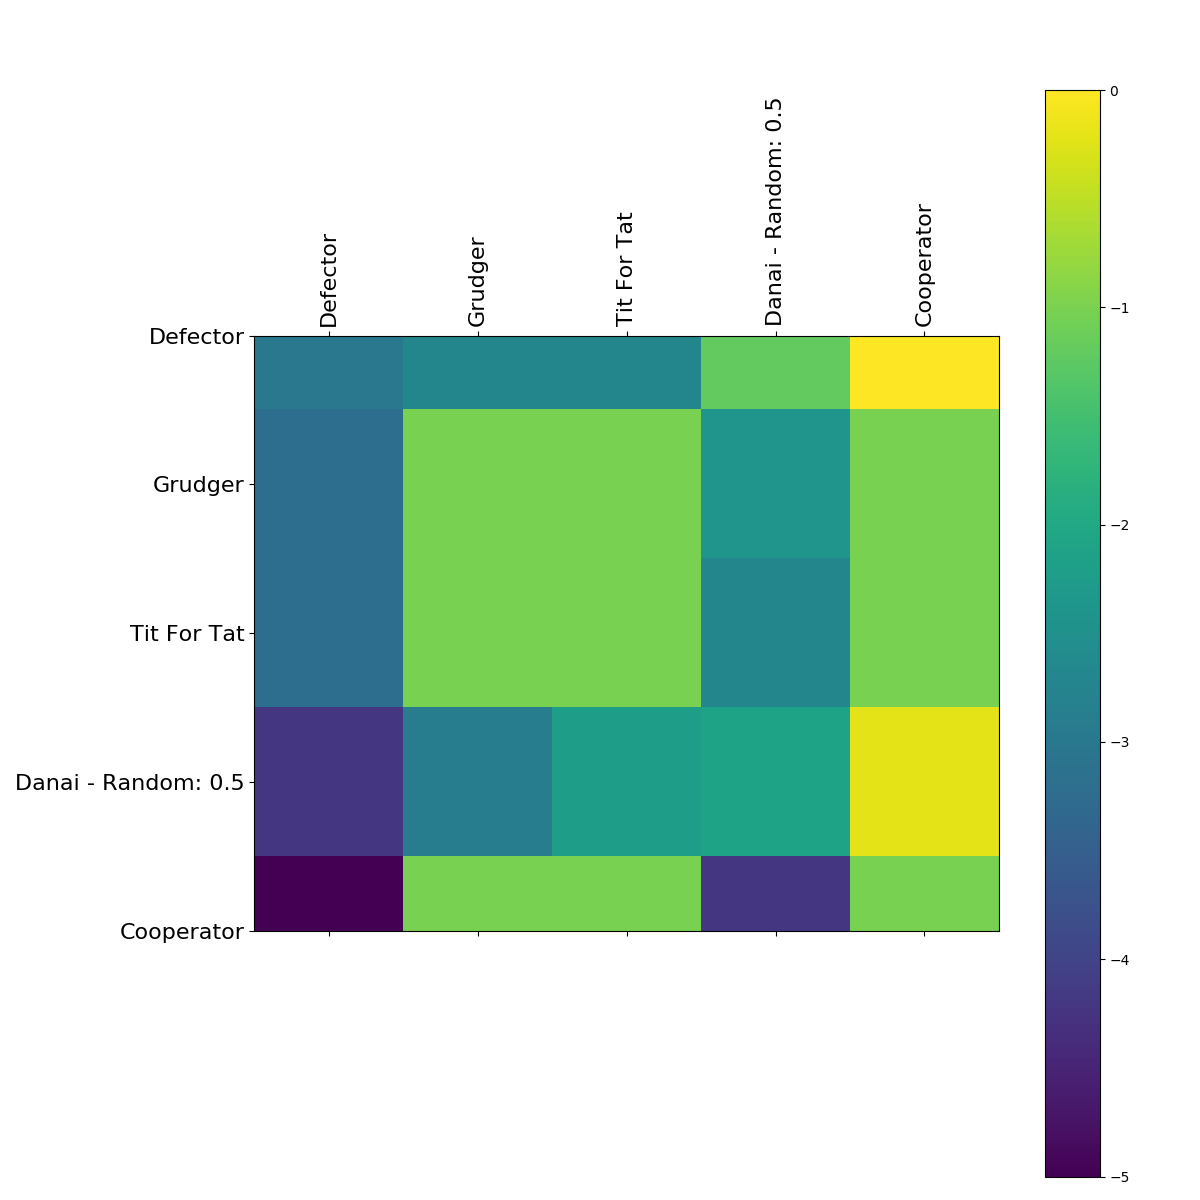
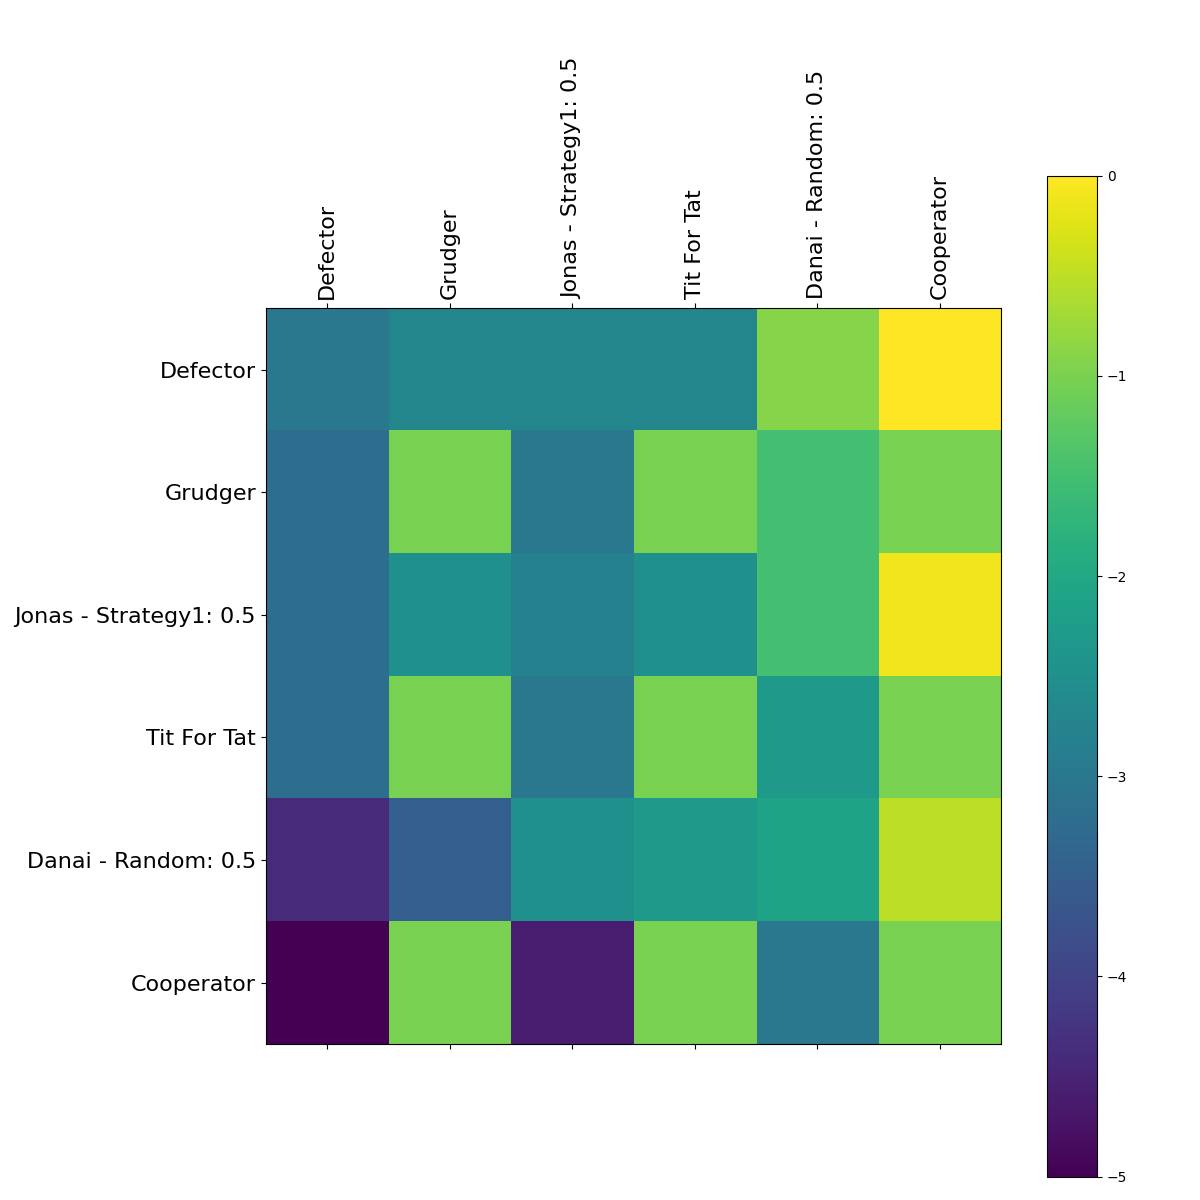
draft

diff --git a/was-tournament/wasstrategies/jonas_strategy.py b/was-tournament/wasstrategies/jonas_strategy.py
@@ -1,0 +1,83 @@
+"""Code retrieved from Axelrod rand.py strategy"""
+
+from axelrod.action import Action
+from axelrod.player import Player
+
+C, D = Action.C, Action.D
+
+
+class Jonas(Player):
+    """A player who randomly chooses between cooperating and defecting.
+    This strategy came 15th in Axelrod's original tournament.
+    Names:
+    - Random: [Axelrod1980]_
+    - Lunatic: [Tzafestas2000]_
+    """
+
+    name = "Jonas - Strategy1"
+    classifier = {
+        "memory_depth": 0,  # Memory-one Four-Vector = (p, p, p, p)
+        "stochastic": True,
+        "long_run_time": False,
+        "inspects_source": False,
+        "manipulates_source": False,
+        "manipulates_state": False,
+    }
+
+    def __init__(self, p: float = 0.5) -> None:
+        """
+        Parameters
+        ----------
+        p, float
+            The probability to cooperate
+        Special Cases
+        -------------
+        Random(0) is equivalent to Defector
+        Random(1) is equivalent to Cooperator
+        """
+        super().__init__()
+        self.p = p
+        self.lost_trust = False
+        self.gained_trust = False
+
+    def strategy(self, opponent: Player) -> Action:
+        """Actual strategy definition that determines player's action."""
+        if len(self.history) == 0:
+            return C
+        if len(self.history) >= 8:
+            if self.gained_trust == False:
+                return D
+            else:
+                return C
+        # if opponent history includes a C after a D, then cooperate
+        if (
+            len(opponent.history) > 1
+            and opponent.history[-1] == C
+            and opponent.history[-2] == D
+        ):
+            self.gained_trust = True
+            return C
+        # if previous round of opponent was a defection, perform defection
+        if len(opponent.history) > 0 and opponent.history[-1] == D:
+            return D
+        # Defect in any other case
+        return D
+
+    def _post_init(self):
+        super()._post_init()
+        if self.p in [0, 1]:
+            self.classifier["stochastic"] = False
+        # Avoid calls to _random, if strategy is deterministic
+        # by overwriting the strategy function.
+        if self.p <= 0:
+            self.strategy = self.defect
+        if self.p >= 1:
+            self.strategy = self.cooperate
+
+    @classmethod
+    def cooperate(cls, opponent: Player) -> Action:
+        return C
+
+    @classmethod
+    def defect(cls, opponent: Player) -> Action:
+        return D

diff --git a/was-tournament/was_tournament.py b/was-tournament/was_tournament.py
@@ -1,10 +1,17 @@
 import axelrod as axl
 from wasstrategies import danai_strategy as pl0
+from wasstrategies import jonas_strategy as pl1
 
 """Run an Axelrod Tournament (https://axelrod.readthedocs.io/en/stable/tutorials/new_to_game_theory_and_or_python/tournament.html)"""
 # Create the strategy players
-strategies = [axl.Cooperator(), axl.Defector(),
-axl.TitForTat(), axl.Grudger(), pl0.Danai()]
+strategies = [
+    axl.Cooperator(),
+    axl.Defector(),
+    axl.TitForTat(),
+    axl.Grudger(),
+    pl0.Danai(),
+    pl1.Jonas(),
+]
 
 # Print the startegy players
 print(f"Available strategies: {strategies}")
@@ -13,7 +20,7 @@ print(f"Available strategies: {strategies}")
 prisoners_dilemma = axl.game.Game(r=-1, s=-5, t=0, p=-3)
 
 # Create the tournament between strategy players with 10 turns
-tournament = axl.Tournament(strategies, game = prisoners_dilemma, turns=10, repetitions=1)
+tournament = axl.Tournament(strategies, game=prisoners_dilemma, turns=10, repetitions=1)
 
 # Play the tournament
 results = tournament.play(filename="was-tournament/was_tournament_analysis.csv")
@@ -28,17 +35,17 @@ plot = axl.Plot(results)
 # View the scores averaged per opponent and turns
 p1 = plot.boxplot()
 p1.show()
-p1.savefig('was-tournament/was_results.png')
+p1.savefig("was-tournament/was_results.png")
 
 # View the distributions of wins for each strategy
 p2 = plot.winplot()
 p2.show()
-p2.savefig('was-tournament/was_win_distributions.png')
+p2.savefig("was-tournament/was_win_distributions.png")
 
 # View the payoff matrix
 p2 = plot.payoff()
 p2.show()
-p2.savefig('was-tournament/was_payoff_matrix.png')
+p2.savefig("was-tournament/was_payoff_matrix.png")
 
 
 """Morality metrics (https://axelrod.readthedocs.io/en/latest/how-to/calculate_morality_metrics.html#morality-metrics)"""

diff --git a/was-tournament/wasstrategies/danai_strategy.py b/was-tournament/wasstrategies/danai_strategy.py
@@ -16,7 +16,7 @@ class Danai(Player):
 
     name = "Danai - Random"
     classifier = {
-        "memory_depth": 0,   # Memory-one Four-Vector = (p, p, p, p)
+        "memory_depth": 0,  # Memory-one Four-Vector = (p, p, p, p)
         "stochastic": True,
         "long_run_time": False,
         "inspects_source": False,
